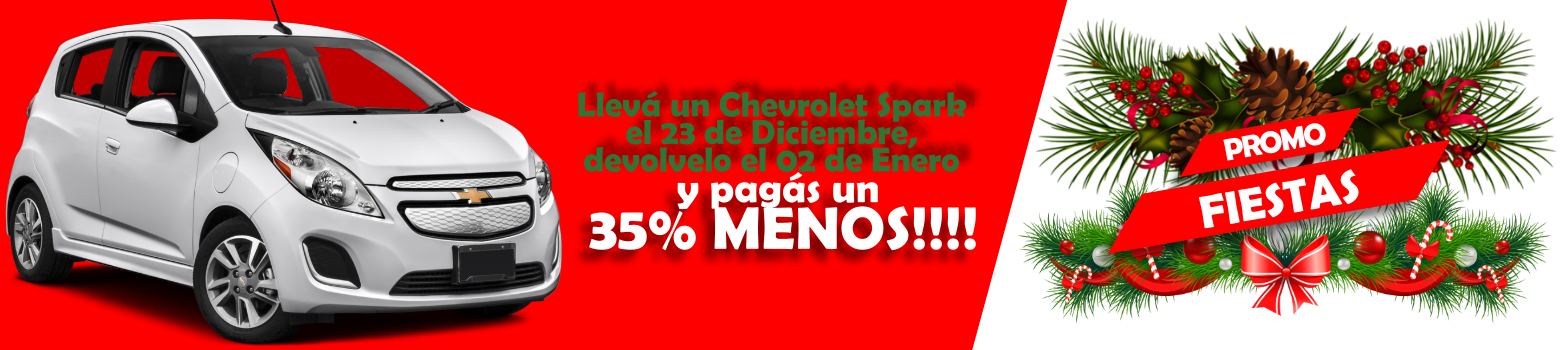
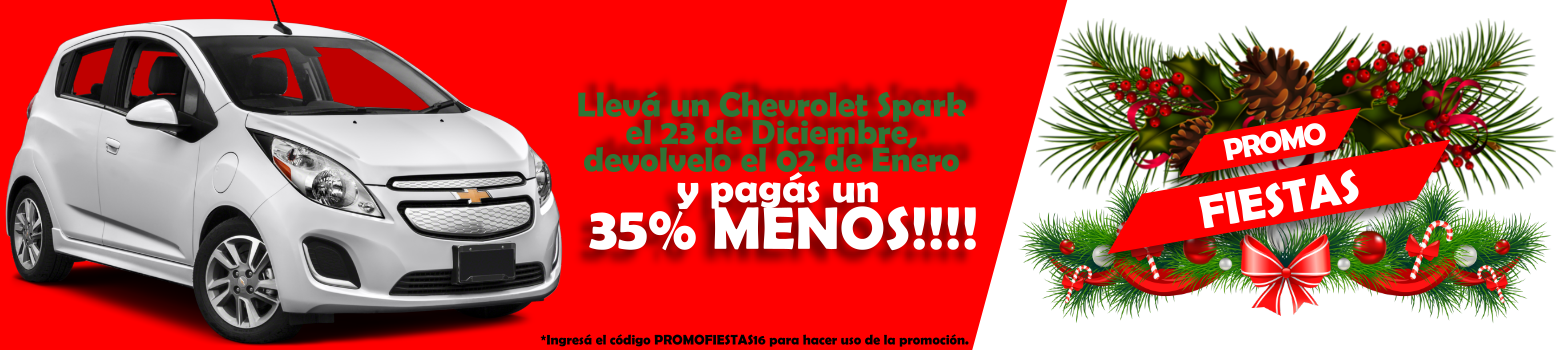
Se comitea log

Changed region(s): [[0.3382, 0.9429, 0.615, 1.0]]

diff --git a/src/main/webapp/static/controllers/rent/rent.controller.js b/src/main/webapp/static/controllers/rent/rent.controller.js
@@ -49,26 +49,16 @@
         today = today.getDate() + '/' + (today.getMonth() + 1) + '/' + today.getFullYear()-18;
 		
 		
-        $('#birthDate').datetimepicker({
-        	language:  'es',
-            weekStart: 1,
-        	autoclose: 1,
-        	todayHighlight: 1,
-        	startView: 2,
-        	minView: 2,
-        	forceParse: 0,
-        	endDate: today
-        });
-        
-        $('#licenseExpirationDate').datetimepicker({
-        	language:  'es',
-            weekStart: 1,
-        	autoclose: 1,
-        	todayHighlight: 1,
-        	startView: 2,
-        	minView: 2,
-        	forceParse: 0
-        });
+        $('.date').datetimepicker({
+			language : 'es',
+			weekStart : 1,
+			autoclose : 1,
+			todayHighlight : 1,
+			startView : 2,
+			minView : 2,
+			forceParse : 0,
+			startDate : today
+		});
 
 		vm.DTColumnDefs = [
 		                   DTColumnDefBuilder.newColumnDef(9).notSortable(),
@@ -131,7 +121,7 @@
 					vm.rent.booked_id=vm.booked.id;
 					if( vm.location[2] == "return"){
 						getRentById(vm.booked.rent);
-						vm.rent.rentLine=[];
+						
 					}
 				}
 				else{
@@ -145,7 +135,7 @@
 		function getRentById(id){
 			RentService.GetRentById(id).then(function (response) {
 				if(response.success){  
-					vm.rent = response.data;
+					vm.rent = response.data.rent;
 				}
 				else{
 					vm.booked = [];
@@ -160,7 +150,7 @@
 			RentService.InsertRent(vm.rent).then(function (response) {
 				if(response.success){
 					getAllRents();
-					$rootScope.doFlashMessage("Se ha confirmado correctamente con éxito",'#/rent/details/'+vm.rent.id,'success');
+					$rootScope.doFlashMessage("Se ha confirmado correctamente con éxito",'#/rent/details/'+vm.booked.id,'success');
 					$scope.cleanInput();
 				}
 				else{

diff --git a/src/main/webapp/static/controllers/payment/payment.controller.js b/src/main/webapp/static/controllers/payment/payment.controller.js
@@ -93,7 +93,7 @@
         		if(response.success){
 	        		vm.isPromotion=response.data.valid;	
 	        		if(!vm.isPromotion){
-	        			$rootScope.doFlashMessage("Esta promocion no es valida en estas condiciones", "", "error", 6000);
+	        			$rootScope.doFlashMessage(response.data.validationError, "", "error", 6000);
 	        		}else{
 	        			vm.percentage=response.data.percentage;
 	        			vm.promotionCode=response.data.promotionCode;

diff --git a/src/main/java/com/servicesImpl/BookedServiceImpl.java b/src/main/java/com/servicesImpl/BookedServiceImpl.java
@@ -5,6 +5,8 @@ import java.time.temporal.ChronoUnit;
 import java.util.ArrayList;
 import java.util.List;
 
+import javax.annotation.Resource;
+
 import org.springframework.beans.factory.annotation.Autowired;
 import org.springframework.beans.factory.annotation.Qualifier;
 import org.springframework.context.annotation.PropertySource;
@@ -24,9 +26,11 @@ import com.entities.BranchOffice;
 import com.entities.Client;
 import com.entities.Extras;
 import com.entities.Model;
+import com.entities.Promotion;
 import com.entities.StatusBetweenDates;
 import com.entities.Vehicle;
 import com.models.BookingModel;
+import com.repository.PromotionRepository;
 import com.services.BookedService;
 
 @Service
@@ -45,6 +49,9 @@ public class BookedServiceImpl extends GenericServiceImpl<Booked, Integer> imple
 	
 	@Autowired
 	Environment env;
+	
+	@Resource(name="PromotionRepository")
+	 PromotionRepository promotionRepository;
 
 	
     @Autowired
@@ -63,7 +70,7 @@ public class BookedServiceImpl extends GenericServiceImpl<Booked, Integer> imple
     }
 
     @Transactional(propagation = Propagation.REQUIRED)
-	public void registerBook(BookingModel model,Client client, String transactionId, String payerId, List<Extras> extras) {
+	public void registerBook(BookingModel model,Client client, String transactionId, String payerId, List<Extras> extras,String promoCode) {
 		Vehicle vehicle=vehicleDao.getVehiculeAvailable(model);
 		BranchOffice originBO=branchOfficeDao.getById(model.getOriginBranchOfficeId());
 		BranchOffice finalBO=branchOfficeDao.getById(model.getEndBranchOfficeId());
@@ -78,6 +85,7 @@ public class BookedServiceImpl extends GenericServiceImpl<Booked, Integer> imple
 		booked.setEndOffice(finalBO);
 		booked.setTransactionNr(transactionId);
 		booked.setPayerId(payerId);
+		booked.setPromotionCode_id(promoCode);
 		Model vehiculeModel=vehicle.getModel();
 		float gpsByDay=0,insuranceByDay=0;
 		if(model.isWithInsurance()){
@@ -93,6 +101,12 @@ public class BookedServiceImpl extends GenericServiceImpl<Booked, Integer> imple
 		}
 		if (model.isWithFullTank()) {
 			initialAmount += vehiculeModel.getFullTank();
+		}
+		try {
+			Promotion promo=promotionRepository.findByPromotionCode(promoCode);
+			initialAmount =initialAmount- initialAmount*(promo.getPercentage()/100);
+		} catch (Exception e) {
+			// TODO: handle exception
 		}
 		booked.setExtrasList(extras);
 		booked.setInitialAmount(initialAmount);

diff --git a/src/main/java/com/controllers/PromotionController.java b/src/main/java/com/controllers/PromotionController.java
@@ -13,6 +13,7 @@ import javax.validation.Validation;
 import javax.validation.Validator;
 import javax.validation.ValidatorFactory;
 
+import org.apache.log4j.Logger;
 import org.springframework.beans.factory.annotation.Autowired;
 import org.springframework.http.HttpStatus;
 import org.springframework.http.ResponseEntity;
@@ -34,6 +35,8 @@ import com.servicesImpl.PromotionService;
 @Controller
 @RequestMapping(value = "promotion")
 public class PromotionController {
+	
+	private static final Logger logger = Logger.getLogger(PromotionController.class);
 
 	@Autowired
 	PromotionService promotionService;
@@ -115,7 +118,8 @@ public class PromotionController {
 		String messageError="";
 		try{
 			for(Integer cli:promo.getClients_id()){
-				if(cli.equals(client.getId())){ userValid=false;messageError="Usted ya ha utilizado este codigo";}
+				if(cli.equals(client.getId())){ 
+					userValid=false;messageError="Usted ya ha utilizado este codigo";}
 			}
 		}catch(NullPointerException e){
 			userValid=true;

diff --git a/src/main/java/com/entities/BranchOffice.java b/src/main/java/com/entities/BranchOffice.java
@@ -13,6 +13,8 @@ import javax.persistence.Id;
 import javax.persistence.OneToMany;
 import javax.persistence.Table;
 
+import org.springframework.data.mongodb.core.mapping.DBRef;
+
 import com.configuration.LocalTimeDeserializer;
 import com.configuration.LocalTimeSerializer;
 import com.fasterxml.jackson.databind.annotation.JsonDeserialize;
@@ -52,20 +54,21 @@ public class BranchOffice implements Serializable{
 	private LocalTime closingHour;
 	
 	@OneToMany(mappedBy="originOffice")
+	@DBRef
 	private List<Booked> BookedEndsLists;
-	
+	@DBRef
 	@OneToMany(mappedBy="endOffice")
 	private List<Booked> BookedOriginsLists;
-	
+	@DBRef
 	@OneToMany(mappedBy="branchOffice")
 	private List<Vehicle> vehicles;
-	
+	@DBRef
 	@OneToMany(mappedBy="branchOffice")
 	private List<Employee> employee;
-
+	@DBRef
 	@OneToMany(mappedBy="branchOffice")
 	private List<StatusBetweenDates> statusDates;
-	
+	@DBRef
 	@OneToMany(mappedBy="branchOfficeEnd")
 	private List<StatusBetweenDates> statusDatesEnd;
 

diff --git a/src/main/java/com/controllers/PaymentTransactionController.java b/src/main/java/com/controllers/PaymentTransactionController.java
@@ -188,11 +188,12 @@ public class PaymentTransactionController {
 					try{
 						System.out.println(promo);
 						promotionService.create(promo);
+					
 					}catch(Exception e){
 						
 					}
 				}
-				bookedService.registerBook(bookingCar, client, transactionId, transaction.getPayerPayPalID(), extras);
+				bookedService.registerBook(bookingCar, client, transactionId, transaction.getPayerPayPalID(), extras,promotionCode);
 				DateTimeFormatter format=DateTimeFormatter.ofPattern("dd/MM/yyyy");
 				mailAuxiliar.sendMailWithHtmlText("<p>Se ha confirmado su reserva!</p><br><p>Lo esperamos el dia "+bookingCar.getStartDate().format(format)+" en nuestra sucursal de "+officeService.get(bookingCar.getOriginBranchOfficeId()).getCity() +" para que pueda retirar su vehiculo y empezar su viaje.</p><br><p>Gracias por su preferencia, un saludo del personal de Rent-Uy</p>", client.getEmail(), "Confirmacion de reserva");
 				return ResponseEntity.ok("Transaction complete!");

diff --git a/src/main/java/com/controllers/RentController.java b/src/main/java/com/controllers/RentController.java
@@ -85,7 +85,14 @@ public class RentController {
 		Booked booked = bookedServices.get(rent.getBooked_id());
 		System.out.println(rent);
 		rent.setDeliveryDate(LocalDate.now());
-		rent.setId(UUID.randomUUID().toString());
+		rent.setId(UUID.randomUUID().toString()); 
+		try {
+			rent.getTransactionNr();
+			rent.setTransactionDate(LocalDate.now());
+		} catch (Exception e) {
+			// TODO: handle exception
+		}
+		rent.setClientId(booked.getClient().getId());
 		rent = rentServices.create(rent);
 		booked.setRent(rent.getId());
 		bookedServices.saveOrUpdate(booked);

diff --git a/src/main/java/com/restController/ApiRestController.java b/src/main/java/com/restController/ApiRestController.java
@@ -161,7 +161,7 @@ public class ApiRestController {
 			String token = reservation.getToken(); //token es en realidad el transaction ID
 			String PayerID = reservation.getPayerId();
 			List<Extras> extras = reservation.getExtras();
-	 		bookedService.registerBook(booking, (Client) userService.get(reservation.getClientId()), token, PayerID, extras);
+	 		bookedService.registerBook(booking, (Client) userService.get(reservation.getClientId()), token, PayerID, extras,reservation.getPromotionCode());
 		}
 		catch(Exception ex){
 			log.error(ex);

diff --git a/src/main/java/com/services/BookedService.java b/src/main/java/com/services/BookedService.java
@@ -11,7 +11,7 @@ import com.entities.Extras;
 import com.models.BookingModel;
 
 public interface BookedService extends GenericService<Booked,Integer> {
-	public void registerBook(BookingModel model,Client client, String transactionId, String payerId, List<Extras> extras);
+	public void registerBook(BookingModel model,Client client, String transactionId, String payerId, List<Extras> extras,String promotionCode);
 
 	public Booked getBookedByClient(Client user);
 	

diff --git a/src/main/java/com/entities/Model.java b/src/main/java/com/entities/Model.java
@@ -19,6 +19,7 @@ import javax.validation.constraints.NotNull;
 import javax.validation.constraints.Size;
 
 import org.hibernate.validator.constraints.NotEmpty;
+import org.springframework.data.mongodb.core.mapping.DBRef;
 
 @Entity
 public class Model implements Serializable {
@@ -39,6 +40,7 @@ public class Model implements Serializable {
 	private String name;
 
 	@ManyToOne
+	@DBRef
 	@JoinColumn(name = "brand_id", nullable = false)
 	private Brand brand;
 	

diff --git a/src/main/java/com/daoImpl/StatusBetweenDatesDaoImpl.java b/src/main/java/com/daoImpl/StatusBetweenDatesDaoImpl.java
@@ -53,6 +53,7 @@ public class StatusBetweenDatesDaoImpl extends GenericDaoImpl<StatusBetweenDates
 		newDisponibility.setBeginDate(finalDate);
 		newDisponibility.setEndDate(finalDate.plusYears(10));
 		newDisponibility.setBranchOffice(finalBranchOffice);
+		newDisponibility.setBranchOfficeEnd(finalBranchOffice);
 		newDisponibility.setStatus(Vehicle_Status.Available);
 		newDisponibility.setVehicle(vehicle);
 		this.saveOrUpdate(newDisponibility);
